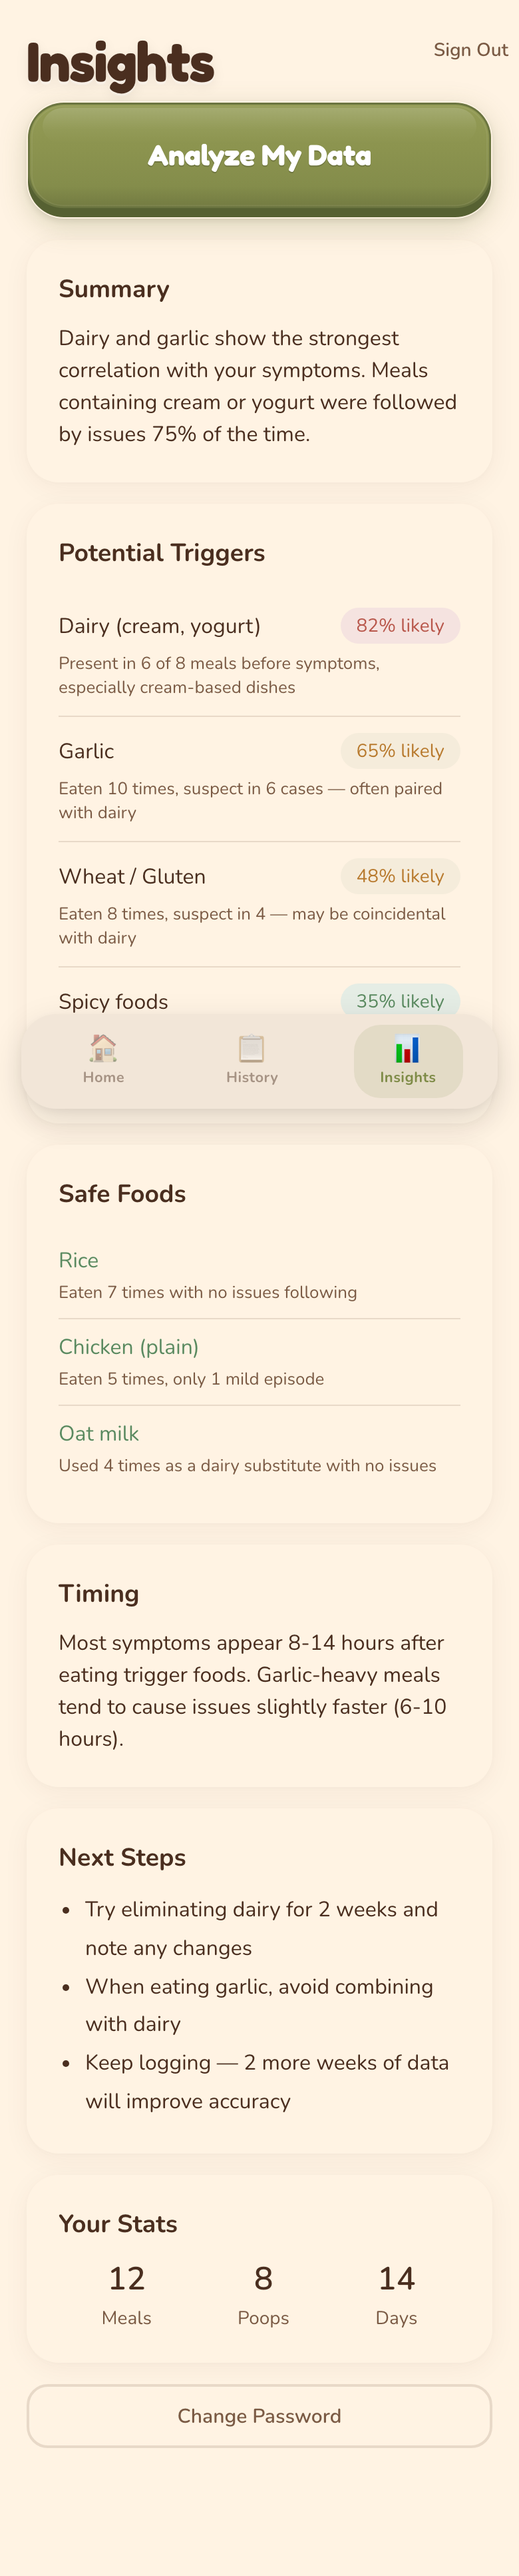
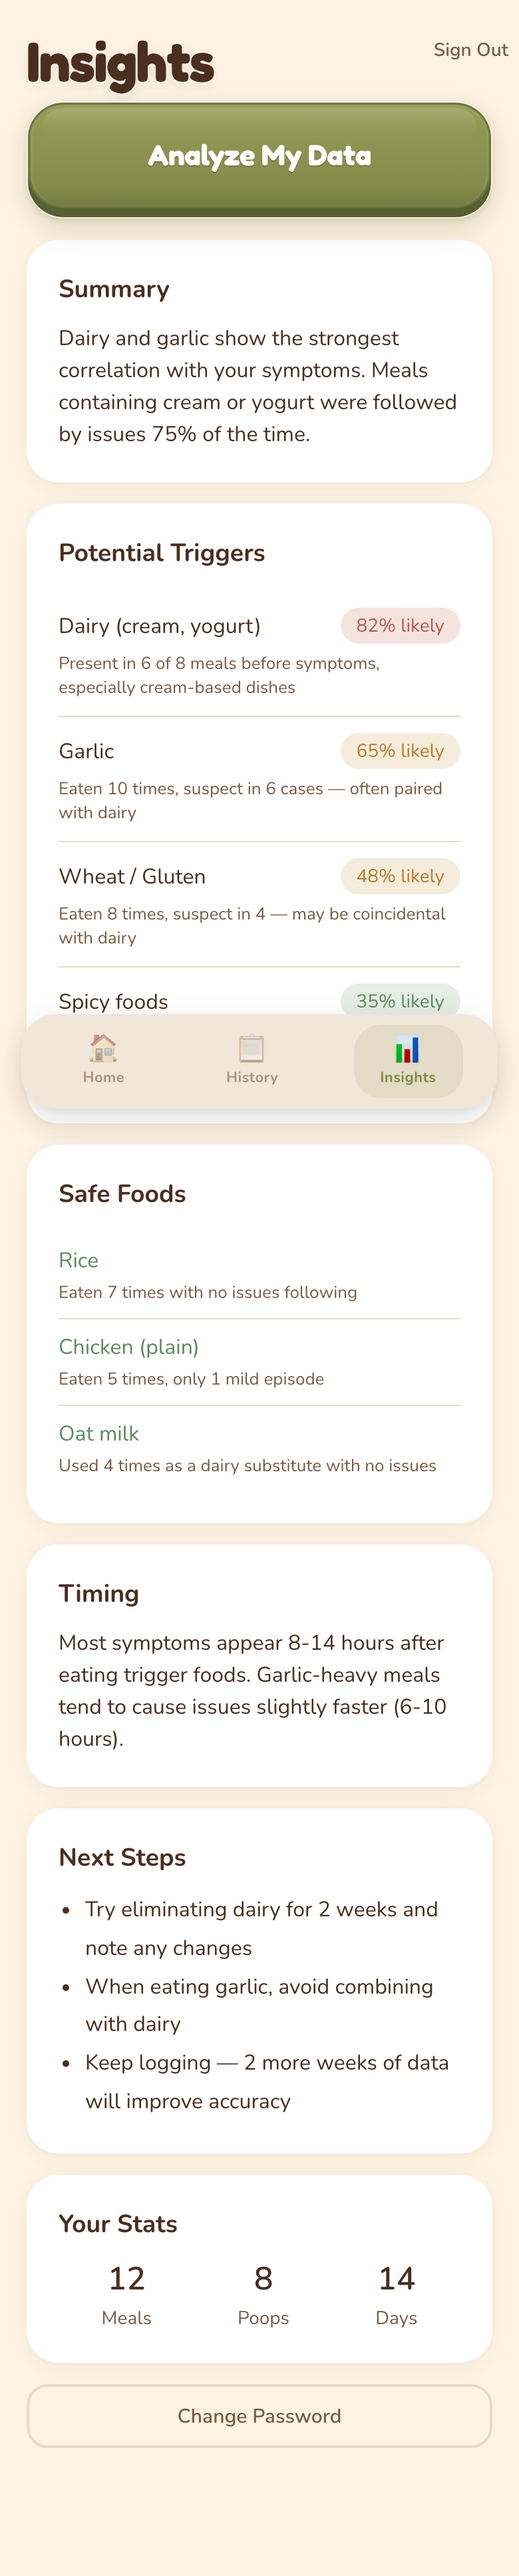
Change card backgrounds to white for better contrast against cream page

diff --git a/src/index.css b/src/index.css
@@ -203,11 +203,11 @@ body {
 
 /* ── Cards ── */
 .card {
-  background: #FFF3E3;
+  background: white;
   border-radius: 24px;
   padding: 24px;
   box-shadow:
-    0 4px 20px rgba(74, 46, 31, 0.05),
+    0 4px 20px rgba(74, 46, 31, 0.06),
     0 1px 4px rgba(0, 0, 0, 0.02);
   margin-bottom: 16px;
 }
